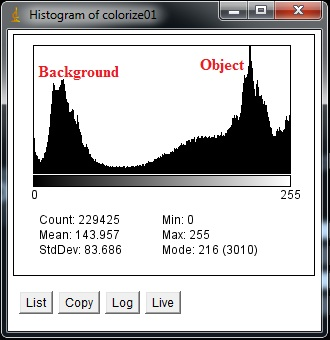
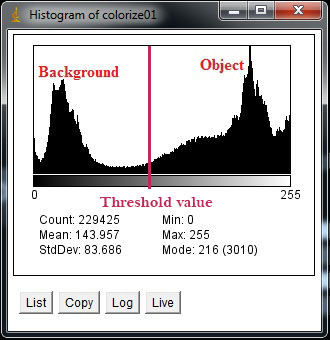
changes till threshold

diff --git a/Report/theory.tex b/Report/theory.tex
@@ -66,7 +66,9 @@ Working with pixels in a image is like working with a coordinate system. Startin
 \includegraphics[width=1.00\textwidth]{Pictures/Theory/IndexingAPicture}
 \caption{The pixel values are stored in a coordinate system. Note that Y goes down and not up.}
 \label{fig:ip_IndexingAPicture}
-\end{figure} 
+\end{figure}
+
+\textbf{[WE NEED TO CHANGE THE PIC!!!!!!!! TOO DARK!!! ... ]}
 
 In OpenCV, images are stored in a matrix (see figure \ref{fig:opencv_matrix}). The size of the matrix holding the pixel values of the X and Y axis is as wide as the proportions of the image, therefore, when an image with a resolution of \textit{1024*1024} pixels is loaded, the highest coordinate assigned to pixels in the the matrix is (1023,1023).
 
@@ -99,42 +101,7 @@ In comparison to the above-mentioned where images are defined by bit depth and p
 Using the tool correctly, it is possible to adjust the input so that only usable pixel information remains in the picture. However, this should be carefully done, as the input can be easily over- and undersegmentated. Threshold would be developed further more on next sections.
 
 \section{Histograms}
-A commonly-used tool when working with digital images are histograms. A histogram provides an easy overview of the frequency of events. An image histogram is a graphical representation of the pixel values. This can be used to tell whether an image is too dark or too bright, as well as how good the contrast is \citep{ip_book}. Figure \ref{fig:SimpleThreshold} shows a histogram where each pixel value from 0-255 has a bin. The more often a specific pixel value is present on the image, the taller the bin will be. On the histogram there is a lot of bins near the edges (0 and 255) and less in the middle. This means that the picture is mostly black and white with few nuances in-between.
-
-One can also use the histogram to describe the contrast in an image. The contrast is a measure of the intensity differences in dark and light areas on the picture \citep{histogram}. This means that a histogram with broad values, i.e. they use the whole spectrum from 0-255, will represent an image with good contrast. On the other hand, if the histogram is very narrow, the contrast in the image is smaller, and it will appear more flat and dull (see figure \ref{fig:histogram_contrast}).
-
-\begin{figure}[htbp]
-\centering
-\includegraphics[width=0.80\textwidth]{Pictures/Theory/hisogram_contrast.png}
-\caption{Histograms can be used to describe the contrast in an image. Picture from \citep{histogram}.}
-\label{fig:histogram_contrast}
-\end{figure}
-
-%%%%%%%%%%%%%%%%% This is changed %%%%%%%%%%%%%%%%%%%%%%%%%
-
-\section{Thresholding}\label{sec:Thresholding}
-Thresholding is one of the most fundamental operations when working with images. It is performed to make an input picture binary, i.e. either black, which relates to the pixel value of 0 or white, which relates to the pixel value of 255. Making an image binary means to show the image in only completely black and completely white pixel values.
-
-This is useful in programs where you need to find silhouettes, such as tracking a person, where smaller details are not of importance.
-
-To determine which pixels that should be completely black and which that should be completely white a fixed thresholding value is required. Using a metaphor, the threshold value can be compared to a gatekeeper that lets everyone who is 18 years old or older inside the club, but denies access to people who are 17 or younger. Using this analogy; pixels that are "old" (bright) enough are let in, while "younger" pixels (dark) are denied.
-
-Using the same analogy that somebody decided that the border between being too young and just old enough, should be 18 years. This age could easily be something different, such as 17 or 24. The same is relevant with thresholding. You have to decide when pixels are "old" enough (bright). If they are too young (dark), they cannot get access.
-
-In practice this means that pixels with values greater than a threshold is set to TRUE (or white), which typically is 255 when talking in bytes. On the other hand, if a pixel is less than the threshold value, it is set to FALSE (black) or 0. To sum this up the formula for making a threshold is shown in equation \ref{threshold}.
-\begin{equation}
-  \begin{aligned}
-  	\text{if } f(x,y)\leq T \quad \text{then } g(x,y)&= 0 \\
-  	\text{if } f(x,y)>T \quad \text{then } g(x,y)&= 255
-	\label{threshold}  
-  \end{aligned} 
-\end{equation}
-Where $T$ is the threshold value, $f(x,y)$ is the input pixel and $g(x,y)$ is the output pixel. 
-
-When setting the thresholding value it is important to think about what is wanted regarding the output. It differs  from image to image how effective thresholding is, based on the contrast difference between the object and the background. If the background, and the object you want to find are very different in color and/or contract, then it is easy to distinguish between them and choose an effective threshold value. However; if the object and background are very similar, it becomes harder to do choose a thresholding value. As you will have to chose between losing information associated to the object of interest or to gather some background noise, but then keeping the object of interest.\\
-To get a better understanding of this, look at the histograms shown in \ref{fig:SimpleThreshold} and \eqref{fig:ComplicatedThreshold} that shows to grayscale pictures.
-
-It is easy to tell that the leftmost histogram is more ideal to threshold because the object and background are very different, which is shown with two "mountains" in the histogram. This is also called a bi-modal histogram \citep{ip_book}. On the other hand, the histogram to the right does not have two clear mountains; instead it has one big mountain and two smaller ones. This makes it hard to define a good threshold value.
+A commonly-used tool when working with digital images are histograms. Essentially a histogram provides data distribution, which is an easy way to get an overview of the frequency of events. An image histogram is a graphical representation of the pixel values. This is used to show whether an image is too dark or too bright, as well as how good the contrast is \citep{ip_book}. Figure \ref{fig:SimpleThreshold} shows a histogram with pixel values from 0-255, which cover the entire graphic as each pixel value has a bin. The more often a specific pixel value is present on the image, the taller the bin will be. The image shows a histogram with a high concentration of bins near the edges (0 and 255). This means that the picture is mostly black and white with few nuances in-between.
 
 \begin{figure}[htbp] \centering
 \begin{minipage}[b]{0.45\textwidth} \centering
@@ -143,6 +110,7 @@ It is easy to tell that the leftmost histogram is more ideal to threshold becaus
 \begin{minipage}[b]{0.45\textwidth} \centering
 \includegraphics[width=1.00\textwidth]{Pictures/Theory/ComplicatedThresholdPicture} % Højre billede
 \end{minipage} \\ % Captions og labels
+%\end{figure}
 \begin{minipage}[t]{0.45\textwidth}
 \caption{Ideal histogram with two "mountains".} % Venstre caption og label
 \label{fig:SimpleThreshold}
@@ -152,6 +120,36 @@ It is easy to tell that the leftmost histogram is more ideal to threshold becaus
 \label{fig:ComplicatedThreshold}
 \end{minipage}
 \end{figure}
+
+As said before, histograms can also be used to describe the contrast in an image. The contrast is a measure of the difference of intensity levels between the dark and light areas on the picture \citep{histogram}. This means that a histogram with broad values, will represent an image with good contrast. On the other hand, if the histogram is very narrow, the contrast in the image is smaller, and it will appear more flat and dull (see figure \ref{fig:histogram_contrast}).
+
+\begin{figure}[htbp]
+\centering
+\includegraphics[width=0.80\textwidth]{Pictures/Theory/hisogram_contrast.png}
+\caption{Histograms can be used to describe the contrast in an image. Picture from \citep{histogram}.}
+\label{fig:histogram_contrast}
+\end{figure}
+
+\section{Thresholding}\label{sec:Thresholding}
+Thresholding is one of the most fundamental operations when working with images. It is performed to transform a picture to binary; i.e. either black, which relates to the pixel value of 0 or white, which relates to the pixel value of 255. Making an image binary means to show the image in only black and white pixel values.
+
+This is useful in programs where you need to find silhouettes, such as tracking a person, where smaller details are not important.
+
+To determine which pixels should be completely black and which pixels should be completely white a fixed \textit{thresholding value} is required. Using a metaphor, the \textit{threshold value} can be compared to a gatekeeper that lets everyone who is 18 years old or older inside the club, but denies access to people who are 17 or younger. Using this analogy, pixels that are "old" (bright) enough are let in, while "younger" pixels (dark) are denied. The value used to classify which persons (or pixels) can pass and which have to stay out, have to be decided by the gatekeeper (or the programmer, in our case).
+
+In practice this means that pixels with values greater than a threshold is set to TRUE (or white), which typically is 255 when talking in bytes. On the other hand, if a pixel is less than the threshold value, it is set to FALSE (black) or 0. To sum this up, the formula for making a threshold is shown in equation \ref{threshold}.
+\begin{equation}
+  \begin{aligned}
+  	\text{if } f(x,y)\leq T \quad \text{then } g(x,y)&= 0 \\
+  	\text{if } f(x,y)>T \quad \text{then } g(x,y)&= 255
+	\label{threshold}  
+  \end{aligned} 
+\end{equation}
+Where $T$ is the threshold value, $f(x,y)$ is the input pixel and $g(x,y)$ is the output pixel. 
+
+When setting the thresholding value it is important to think about what is wanted regarding the output. The effectiveness of the \textit{threshold value} will differ from image to image, depending on the contrast between the object and the background. If the background and the object are very different in color and/or contrast, it will be easy to distinguish them and choose an effective \textit{threshold value}. However, if the object and background are very similar, it will be hard to do choose a value to separate them properly. At that point it will be necessary to chose between losing information associated to the object of interest or to gather some background noise, to preserve it. Pictures \ref{fig:SimpleThreshold} and \ref{fig:ComplicatedThreshold} show the \textit{threshold value} used on the images \ref{fig:SimpleThresholdAfter} and \ref{fig:ComplicatedThresholdAfter}.
+
+It is easy to tell that the leftmost histogram is more ideal to threshold because the object and background are very different, which is shown with two "mountains" in the histogram. This is also called a bi-modal histogram \citep{ip_book}. On the other hand, the histogram to the right does not have two clear mountains; instead it has one big mountain and two smaller ones. This makes it hard to define a good threshold value.
 
 Looking at picture \ref{fig:SimpleThresholdAfter} will show that the picture with the leftmost histogram, figure \ref{fig:SimpleThreshold}, gives a clear outline of the silhouette of a woman after the thresholding value is applied. However, looking at figure \ref{fig:ComplicatedThresholdAfter} shows that the picture with the rightmost histogram, figure \ref{fig:ComplicatedThreshold}, produces a poor silhouette of a woman, due to the fact that the background and the object has very similar colors. 
 
